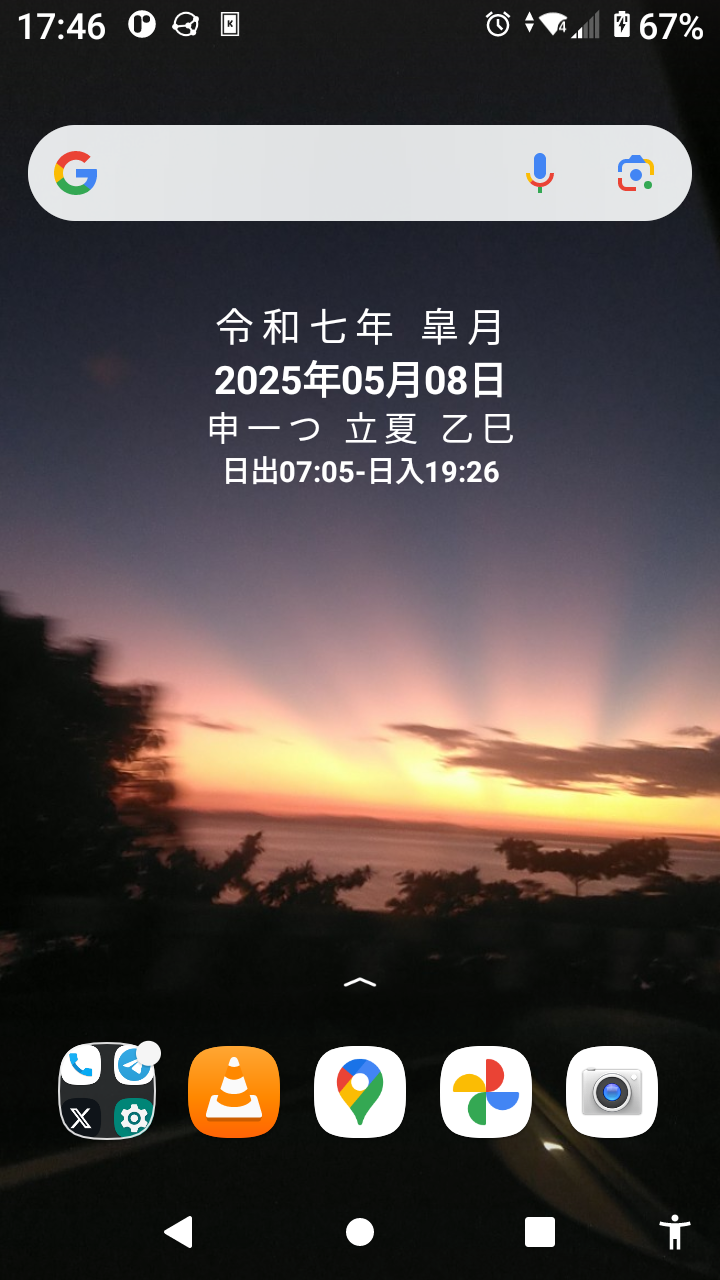
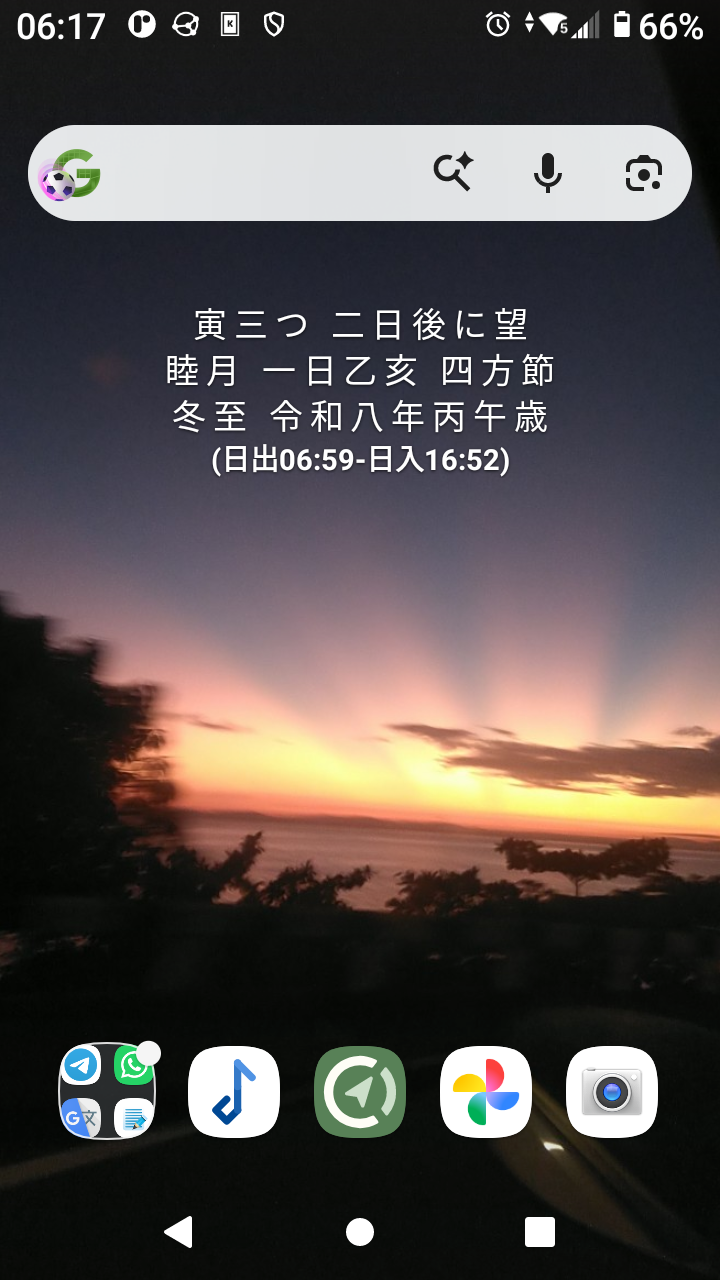
edit docs following updating feature

diff --git a/README.md b/README.md
@@ -13,11 +13,14 @@
 
 ## 機能
 
-* 和暦  
-* 和風月名  
-* グレゴリー日付  
-* 和時計時刻(不定時法)  
+* 和時計時刻(不定時法)　　
+* 朔望　　
+* 和風月名    
+* 日付    
+* 日干支   
 * 二十四節気  
+* 雑節    
+* 和暦 
 * 干支  
 * おやつになるとウィジットの背景に団子表示  
 * おやつになると和時計の針が小豆色    
@@ -45,6 +48,7 @@
 
 - おやつの時間  
 <img alt="Oyatsu-doki screenshot" src="metadata/en-US/images/phoneScreenshots/15.png" width="50%">  
+<img alt="Oyatsu-doki screenshot" src="metadata/en-US/images/phoneScreenshots/16.png" width="50%">  
 <img alt="Oyatsu-doki screenshot" src="metadata/en-US/images/phoneScreenshots/14.png" width="50%"> 
 
 - ランチャーでの表示  
@@ -129,6 +133,14 @@ AATとは、"GPS-tracking application for sportive activities, with emphasis on 
 ### 不定時法
 
 © [国立天文台](https://eco.mtk.nao.ac.jp/koyomi/wiki/BBFEB9EF2FC4EABBFECBA1A4C8C9D4C4EABBFECBA1.html)   
+
+### 天文計算(日の出・日の入り、二十四節気)  
+
+本プロジェクトの天文計算(日の出・日の入り、二十四節気など)は、以下の文献に記載されたアルゴリズムに基づいています。
+
+Jean Meeus, Astronomical Algorithms, 2nd Edition, Willmann-Bell, Inc., 1998.
+
+実装は同書で解説されているアルゴリズムを参考にした独自実装であり、同書のソースコードそのものは含んでいません。  
 
 ### 和風月名
 

diff --git a/README.en.md b/README.en.md
@@ -25,12 +25,15 @@ Free, no ads.
 ## Function  
 
 ### Widget  
-* Japanese calendar  
-* Japanese-style month names  
-* Gregorian date  
-* Japanese clock time (seasonal time)  
-* 24 solar terms  
-* Chinese zodiac signs    
+* Japanese clock time (seasonal time)   　
+* Syzygy  
+* Traditional Japanese month names (Wafūgetsu-mei)    
+* Day  
+* Sexagenary cycle (Hinoeto) day  
+* 24 solar terms (Nijūshi-sekki)     
+* Miscellaneous seasonal observances (Zassetsu) 
+* Japanese calendar year (Wareki)   
+* Sexagenary cycle (Eto) year  
 * When it comes to Oyatsu-doki, Odango are displayed on the background of the widget  
 
 
@@ -48,6 +51,7 @@ If you do not set the location information (with the installation still), use To
 <img alt="Oyatsu screenshot" src="metadata/en-US/images/phoneScreenshots/1.png" width="50%">  
  
 <img alt="Oyatsu-doki screenshot" src="metadata/en-US/images/phoneScreenshots/15.png" width="50%">  
+<img alt="Oyatsu-doki screenshot" src="metadata/en-US/images/phoneScreenshots/16.png" width="50%">  
 <img alt="Oyatsu-doki screenshot" src="metadata/en-US/images/phoneScreenshots/14.png" width="50%"> 
 
 - Display on the launcher  
